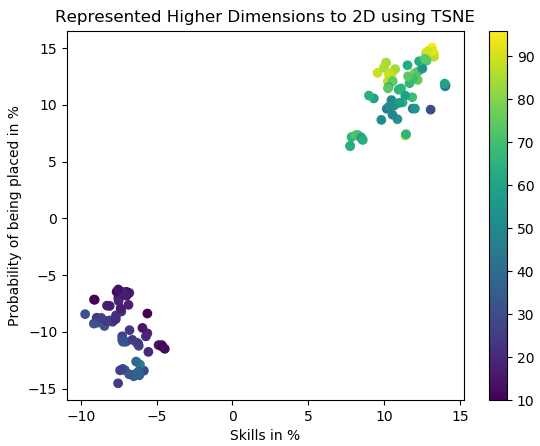
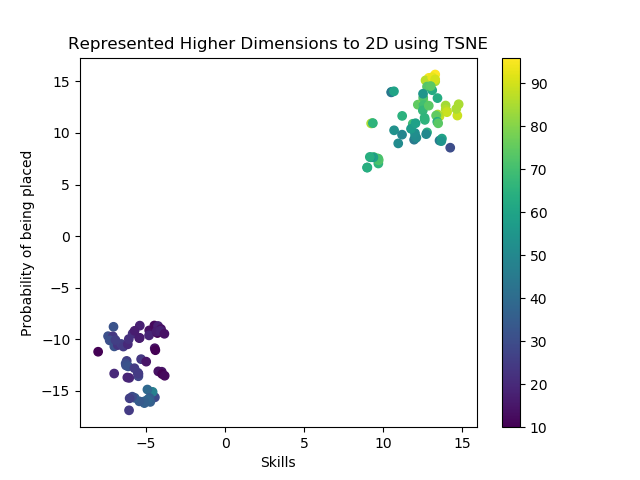
Implemented PCA

diff --git a/Dimensionality Reduction.py b/Dimensionality Reduction.py
@@ -2,6 +2,7 @@ from mpl_toolkits.mplot3d import Axes3D
 import numpy as np
 import matplotlib.pyplot as plt
 from sklearn.manifold import TSNE
+from sklearn.decomposition import PCA
 
 # import file
 data = np.loadtxt("Book11.txt", delimiter='\t', skiprows=1)
@@ -62,12 +63,24 @@ ax.set_title('Average of Qualitative & Quantitative vs Probability of Placement'
 plt.show()
 
 # Implementing TSNE for plotting 16D data into 2D
-X_embedded = TSNE(n_components=2).fit_transform(data[:,:].values)
+X_embedded = TSNE(n_components=2).fit_transform(data[:,:])
 
 plt.figure()
-two_d = plt.scatter(X_embedded[:, 0], X_embedded[:, 1], c=z)
-plt.colorbar(two_d)
-plt.xlabel('Skills in %')
-plt.ylabel('Probability of being placed in %')
+two_d_tsne = plt.scatter(X_embedded[:, 0], X_embedded[:, 1], c=z)
+plt.colorbar(two_d_tsne)
+plt.xlabel('Skills')
+plt.ylabel('Probability of being placed')
 plt.title('Represented Higher Dimensions to 2D using TSNE')
+plt.show()
+
+# Implementing PCA to reduce dimensions
+pca = PCA(n_components=2)
+pca_result = pca.fit_transform(data)
+
+plt.figure()
+two_d_pca = plt.scatter(pca_result[:, 0], pca_result[:, 1], c=z)
+plt.colorbar(two_d_pca)
+plt.xlabel('Skills')
+plt.ylabel('Probability of being placed')
+plt.title('Represented Higher Dimensions to 2D using PCA')
 plt.show()
